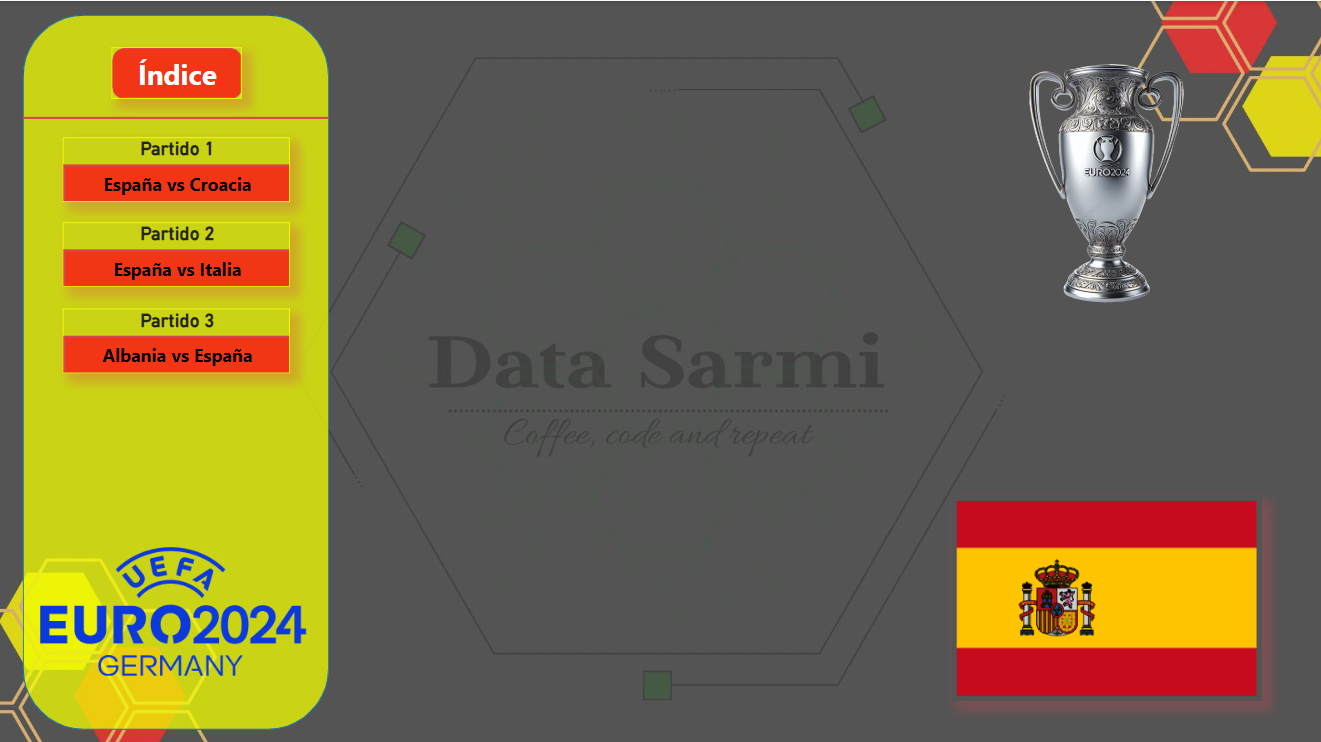
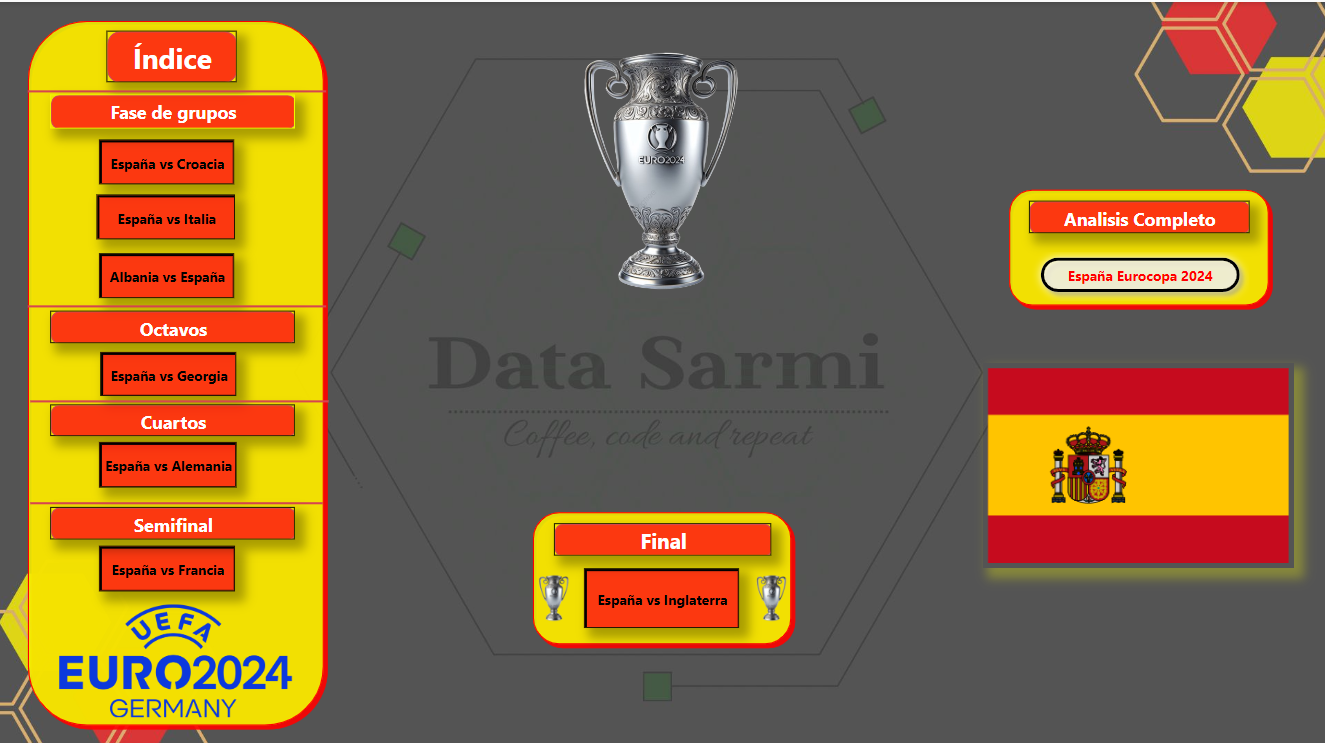
Add Portada

diff --git a/controller.py b/controller.py
@@ -1,0 +1,70 @@
+import sqlite3 as sql
+
+def create_db():
+    conn = sql.connect("seleccion.db")
+    conn.commit()
+    conn.close()
+
+def create_table():
+    conn = sql.connect("seleccion.db")
+    cursor = conn.cursor()
+    cursor.execute(
+    """CREATE TABLE IF NOT EXISTS seleccion (
+        id INTEGER PRIMARY KEY AUTOINCREMENT,
+        jugador TEXT,
+        minutos_jugados INTEGER,
+        goles INTEGER,
+        asistencias INTEGER,
+        disparos_a_puerta INTEGER,
+        disparos_fuera INTEGER,
+        faltas_recibidas INTEGER,
+        faltas_cometidas INTEGER,
+        tarjetas_amarillas INTEGER,
+        tarjetas_rojas INTEGER,
+        pases_acertados INTEGER,
+        pases_fallados INTEGER,
+        paradas_realizadas INTEGER
+    )"""
+    )
+    conn.commit()
+    conn.close()
+    
+def insert_data(jugador, minutos_jugados, goles, asistencias, disparos_a_puerta, faltas_recibidas, faltas_cometidas, tarjetas_amarillas, tarjetas_rojas, pases_completados, pases_fallados, paradas_realizadas):
+    conn = sql.connect("seleccion.db")
+    cursor = conn.cursor()
+    instruccion = """
+    INSERT INTO seleccion (jugador, minutos_jugados, goles, asistencias, disparos_a_puerta, faltas_recibidas, faltas_cometidas, tarjetas_amarillas, tarjetas_rojas, pases_completados, pases_fallados, paradas_realizadas)
+    VALUES (?, ?, ?, ?, ?, ?, ?, ?, ?, ?, ?, ?)
+    """
+    valores = (jugador, minutos_jugados, goles, asistencias, disparos_a_puerta, faltas_recibidas, faltas_cometidas, tarjetas_amarillas, tarjetas_rojas, pases_completados, pases_fallados, paradas_realizadas)
+    cursor.execute(instruccion, valores)
+    conn.commit()
+    conn.close()
+    
+def readRows():
+    conn = sql.connect("seleccion.db")
+    cursor = conn.cursor()
+    instruccion = "SELECT * FROM seleccion"
+    cursor.execute(instruccion)
+    rows = cursor.fetchall()
+    conn.close()
+    print(rows)
+    
+def insertRows(seleccionList):
+    conn = sql.connect("seleccion.db")
+    cursor = conn.cursor()
+    instruccion = """
+    INSERT INTO seleccion (jugador, minutos_jugados, goles, asistencias, disparos_a_puerta, faltas_recibidas, faltas_cometidas, tarjetas_amarillas, tarjetas_rojas, pases_acertados, pases_fallados, paradas_realizadas)
+    VALUES (?, ?, ?, ?, ?, ?, ?, ?, ?, ?, ?, ?)
+    """
+    cursor.executemany(instruccion, seleccionList)
+    conn.commit()
+    conn.close()
+
+if __name__ == "__main__":
+    # create_db()
+    # create_table()
+    # insert_data()
+    # readRows()
+    seleccionList=[]
+    # insertRows(seleccionList)

diff --git a/README.md b/README.md
@@ -13,3 +13,6 @@ Este repositorio contiene el análisis detallado de la participación de la sele
 - **Datos**: Carpeta con los datos utilizados para los análisis.
   - `estadisticas_partidos.csv`: Estadísticas de cada partido.
   - `jugadores.csv`: Información de los jugadores.
+
+
+![Portada Reporte](Portada.png)
